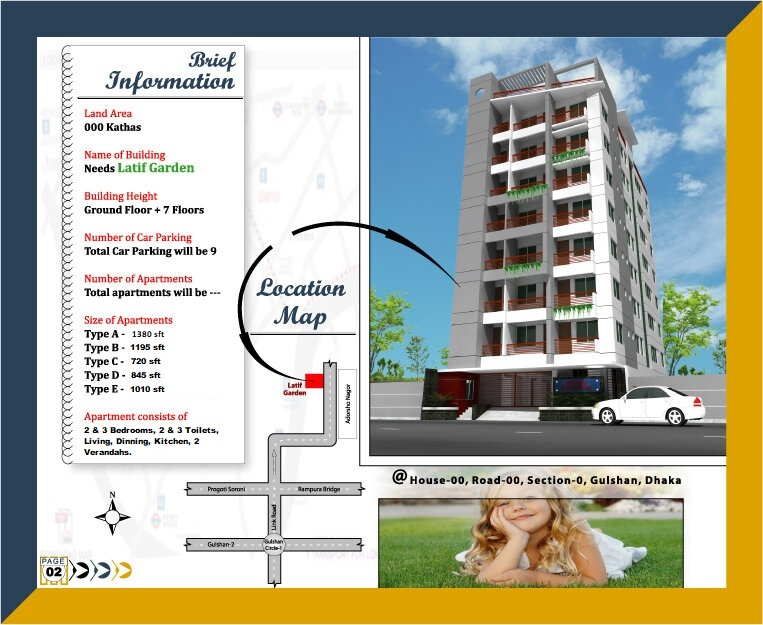
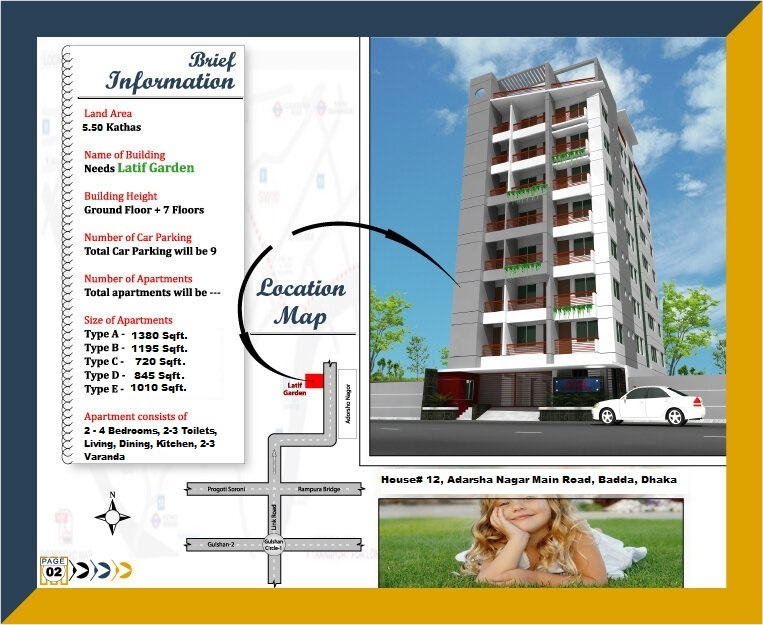
data change

diff --git a/DataRepository/DataStore.cs b/DataRepository/DataStore.cs
@@ -46,7 +46,7 @@ namespace DataRepository
             // NEEDS LATIF GARDEN
             ProjectDetail c = new ProjectDetail();
             c.Name = "NEEDS LATIF GARDEN";
-            c.LandArea = "3 Katha";
+            c.LandArea = "5.50 Katha";
             c.Address = "House# 12, Adarsha Nagar Main Road, Badda, Dhaka.";
             c.SizeOfUnits = "720-1465";
             c.CarParking = "9";
